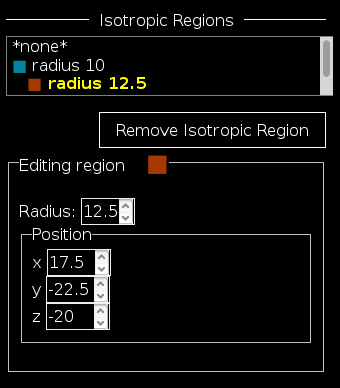
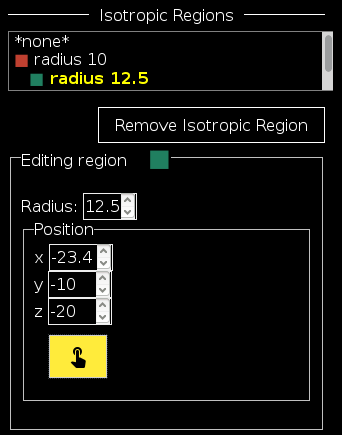
Enhanced interface, updated documentation.

Changed region(s): [[0.0, 0.0, 1.0, 0.9588], [0.0, 0.9278, 0.9412, 0.9897]]

diff --git a/doc/user/index.html b/doc/user/index.html
@@ -475,6 +475,10 @@ and a 1-decimal precision by default.</p>
 <li>Its position (x y z)</li>
 </ul>
 </blockquote>
+<p>Drag and Drop interactive controls for editing the position of the isotropic
+region can be deployed by clicking the button under the position fields.
+When drag and drop controls are active it stays yellow (as shown in the picture)
+and it can be turned off at any moment by clicking over again.</p>
 </div>
 <div class="section" id="editing-a-fiber">
 <h3><a class="toc-backref" href="#id20">3.2.3&nbsp;&nbsp;&nbsp;Editing a Fiber</a></h3>
@@ -517,8 +521,8 @@ changed, the former version is on the scene in red color while the one to
 be saved is in green. The former may be recovered by pressing the <em>Undo</em> button,
 marked with an arrow.</p>
 <p>Position may be edited manually by using the given fields. As well, by clicking
-on the <em>Drag and Drop</em> button, marked with a pointer. This option will disable
-the manual fields while allowing an interactive edition in the scene itself.</p>
+on the <em>Drag and Drop</em> button, marked with a pointer. This option will allow an
+interactive edition in the scene itself.</p>
 <img alt="img/draganddrop.png" class="align-center" src="img/draganddrop.png" />
 <p>The interactive edition allows different liberty grades:</p>
 <blockquote>
@@ -611,7 +615,7 @@ Web Designer for further edition.</p>
 <p>Phantomαs Web Designer is open source and may be
 <a class="reference external" href="https://github.com/ecaruyer/phantomas-web">downloaded and forked on GitHub</a>. Pull Requests are welcome!</p>
 <center><br><br><br><hr class="docutils" />
-<p>This document was generated on 2017-04-27 at 11:13.</p>
+<p>This document was generated on 2017-06-07 at 10:50.</p>
 </div>
 </div>
 </body>

diff --git a/gui/regionedit.js b/gui/regionedit.js
@@ -152,7 +152,7 @@ function regionEdit(index) {
   } else {
     ddbutton.className = 'w3-btn w3-hover-yellow w3-border w3-border-white w3-small w3-ripple';
   }
-  ddbutton.tile = "Drag and Drop point to edit it";
+  ddbutton.title = "Drag and Drop (D)";
   ddbutton.style = 'margin-top: 10px; margin-bottom: 10px';
   ddbutton.innerHTML = '<i class="icons">&#xE901;</i>';
   ddbutton.onclick = function() {

diff --git a/gui/cpedit.js b/gui/cpedit.js
@@ -100,7 +100,7 @@ function cpEdit(index) {
   } else {
     ddbutton.className = 'w3-btn w3-hover-yellow w3-border w3-border-white w3-small w3-ripple';
   }
-  ddbutton.tile = "Drag and Drop point to edit it";
+  ddbutton.title = "Drag and Drop (D)";
   ddbutton.style = 'margin-top: 10px; margin-bottom: 10px';
   ddbutton.innerHTML = '<i class="icons">&#xE901;</i>';
   ddbutton.onclick = function() {

diff --git a/doc/user/source.rst b/doc/user/source.rst
@@ -125,6 +125,11 @@ The editable elements in a region concern:
 
   - Its position (x y z)
 
+Drag and Drop interactive controls for editing the position of the isotropic
+region can be deployed by clicking the button under the position fields.
+When drag and drop controls are active it stays yellow (as shown in the picture)
+and it can be turned off at any moment by clicking over again.
+
 Editing a Fiber
 ```````````````````````````````````````
 .. image:: img/fiberedit.png
@@ -172,8 +177,8 @@ be saved is in green. The former may be recovered by pressing the *Undo* button,
 marked with an arrow.
 
 Position may be edited manually by using the given fields. As well, by clicking
-on the *Drag and Drop* button, marked with a pointer. This option will disable
-the manual fields while allowing an interactive edition in the scene itself.
+on the *Drag and Drop* button, marked with a pointer. This option will allow an
+interactive edition in the scene itself.
 
 .. image:: img/draganddrop.png
     :align: center
